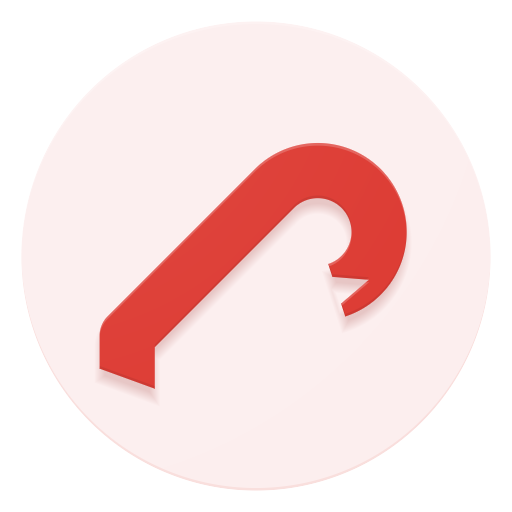
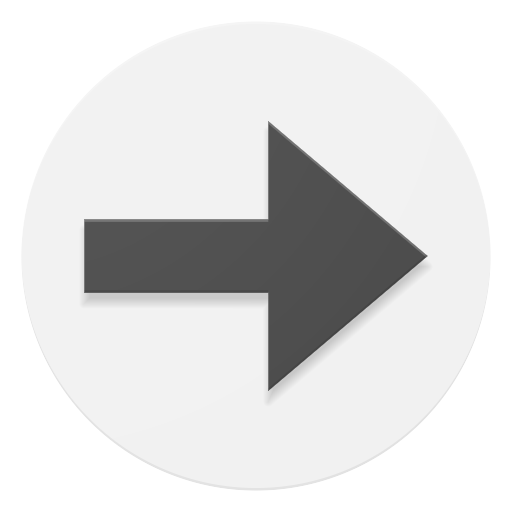
Replace the crowbar with a right-pointing arrow (0.4.1) (#7)
- README: the ASCII crowbar becomes an ASCII arrow pointing right
- Listing icon: a greyscale right arrow drawn to the Material product-icon
  spec (192dp grid, 176dp circle keyline, raised foreground with a 20%
  4dp shadow, 1dp tinted and shaded edges, 45-degree finish), coloured
  from Material 3's zero-chroma neutral palette (tones 95, 90, 30, 10)
- Version 0.4.1: the README and listing icon changed

Changed region(s): [[0.1562, 0.25, 0.8438, 0.7812]]

diff --git a/README.md b/README.md
@@ -1,10 +1,11 @@
 ```text
-    .---.
-   / .-. \
-  | |   \_\>
-  | |
-   \ \______________________________________________________
-    \______________________________________________________/
+                                                   |`.
+   ________________________________________________|  `.
+  |                                                     `.
+  |                                                      >
+  |________________________________________________     .'
+                                                   |  .'
+                                                   |.'
 ```
 
 # Next Context
